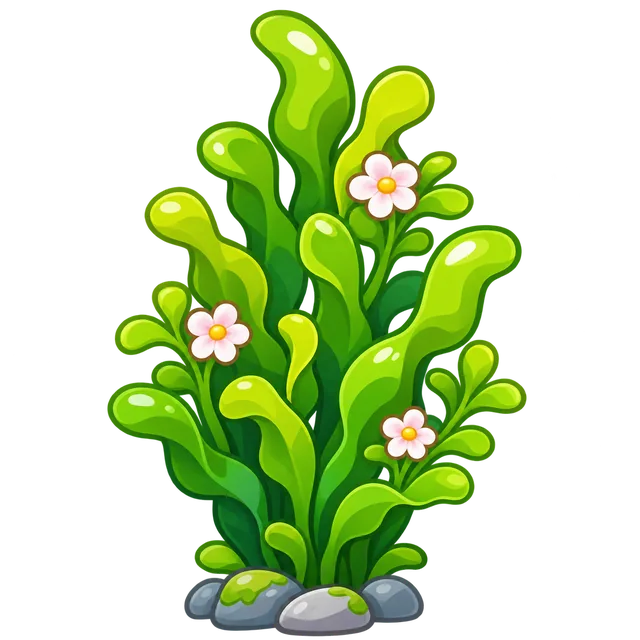
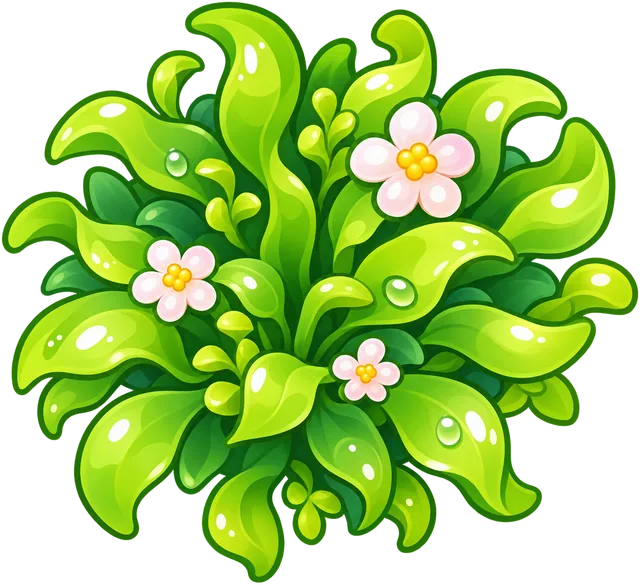
釣蝦遊戲：水草改為俯視簇狀圖
把側視水草換成由上往下看的圓形草叢（大／小／帶花），方形擺在池裡各處並避開碗；遮擋與躲藏邏輯不變。

diff --git a/web/src/customer/cute-art.tsx b/web/src/customer/cute-art.tsx
@@ -89,29 +89,25 @@ const ART:Record<string,()=>React.ReactElement>={
   <path d="M30 46q8-6 16-4" fill="none" stroke="#e3ecf6" strokeWidth={4} strokeLinecap="round"/>
   <circle cx="64" cy="62" r="5" fill="#9fb1c6"/><circle cx="40" cy="70" r="3.4" fill="#9fb1c6"/></>,
  "seaweed-1":()=><>
-  <ellipse cx="32" cy="90" rx="10" ry="6" fill="#c5cdd6" {...g} strokeWidth={2.4}/>
-  <ellipse cx="48" cy="92" rx="13" ry="7" fill="#d5dce4" {...g} strokeWidth={2.4}/>
-  <ellipse cx="64" cy="90" rx="9" ry="6" fill="#b8c2ce" {...g} strokeWidth={2.4}/>
-  <path d="M40 88c-6-22-16-40-8-72 10 8 10 28 8 44 8-18 4-40 14-54 2 22-2 44-6 62Z" fill="#7fce5a" {...g}/>
-  <path d="M52 88c4-24 16-36 8-70-10 10-8 30-6 48 10-16 18-36 22-52-8 24-14 46-16 70Z" fill="#62b848" {...g}/>
-  <path d="M46 86c-2-20 2-40-4-62 8 6 8 26 6 42" fill="none" stroke="#d6ff9a" strokeWidth={3} strokeLinecap="round"/></>,
+  <ellipse cx="50" cy="50" rx="16" ry="16" fill="#2f8a3a"/>
+  {[[50,18,16,28,0],[50,18,16,28,40],[50,18,16,28,80],[50,18,16,28,120],[50,18,16,28,160],[50,18,16,28,200],[50,18,16,28,240],[50,18,16,28,280],[50,18,16,28,320]].map(([x,y,rx,ry,a],i)=>
+   <ellipse key={i} cx={x} cy={y} rx={rx} ry={ry} fill={i%2?"#7ed957":"#4cb83a"} transform={`rotate(${a} 50 50)`} {...g} strokeWidth={2.2}/>)}
+  <ellipse cx="50" cy="50" rx="12" ry="12" fill="#3aa12e" {...g} strokeWidth={2.2}/>
+  <ellipse cx="50" cy="50" rx="6" ry="6" fill="#8ee25a"/></>,
  "seaweed-2":()=><>
-  <ellipse cx="28" cy="86" rx="11" ry="7" fill="#c5cdd6" {...g} strokeWidth={2.4}/>
-  <ellipse cx="50" cy="90" rx="16" ry="8" fill="#d5dce4" {...g} strokeWidth={2.4}/>
-  <ellipse cx="72" cy="86" rx="11" ry="7" fill="#b8c2ce" {...g} strokeWidth={2.4}/>
-  <path d="M34 84c-8-16-6-36 2-52 8 10 6 24 4 36" fill="#8ed45e" {...g}/>
-  <path d="M50 86c-10-18-4-40 6-58 10 12 8 28 4 44 10-16 18-28 16-48-2 22-8 38-12 54Z" fill="#62b848" {...g}/>
-  <path d="M66 84c8-16 6-34-2-50-6 12-4 26-2 36" fill="#7fce5a" {...g}/>
-  <path d="M44 70q6-8 12 0" fill="none" stroke="#d6ff9a" strokeWidth={3} strokeLinecap="round"/></>,
+  <ellipse cx="50" cy="50" rx="12" ry="12" fill="#2f8a3a"/>
+  {[[50,26,12,22,15],[50,26,12,22,60],[50,26,12,22,105],[50,26,12,22,150],[50,26,12,22,195],[50,26,12,22,240],[50,26,12,22,285],[50,26,12,22,330]].map(([x,y,rx,ry,a],i)=>
+   <ellipse key={i} cx={x} cy={y} rx={rx} ry={ry} fill={i%2?"#8ed45e":"#62b848"} transform={`rotate(${a} 50 50)`} {...g} strokeWidth={2.2}/>)}
+  <ellipse cx="50" cy="50" rx="10" ry="10" fill="#3aa12e" {...g} strokeWidth={2.2}/>
+  <ellipse cx="50" cy="50" rx="5" ry="5" fill="#b6f07a"/></>,
  "seaweed-3":()=><>
-  <ellipse cx="30" cy="90" rx="10" ry="6" fill="#c5cdd6" {...g} strokeWidth={2.4}/>
-  <ellipse cx="50" cy="92" rx="14" ry="7" fill="#d5dce4" {...g} strokeWidth={2.4}/>
-  <ellipse cx="68" cy="90" rx="10" ry="6" fill="#b8c2ce" {...g} strokeWidth={2.4}/>
-  <path d="M38 88c-6-22-14-40-6-70 10 8 10 28 7 44 8-16 6-38 16-52 0 22-4 44-8 62Z" fill="#6fbf4c" {...g}/>
-  <path d="M54 88c4-24 14-36 8-68-10 10-8 30-6 46 10-14 16-34 20-50-8 24-12 46-14 68Z" fill="#58a83e" {...g}/>
-  <circle cx="34" cy="28" r="5" fill="#ffe4f0" {...g} strokeWidth={2}/><circle cx="34" cy="28" r="2" fill="#ffb44a"/>
-  <circle cx="70" cy="36" r="5" fill="#ffe4f0" {...g} strokeWidth={2}/><circle cx="70" cy="36" r="2" fill="#ffb44a"/>
-  <circle cx="58" cy="20" r="4.5" fill="#ffe4f0" {...g} strokeWidth={2}/><circle cx="58" cy="20" r="1.8" fill="#ffb44a"/></>,
+  <ellipse cx="50" cy="50" rx="14" ry="14" fill="#2f8a3a"/>
+  {[[50,20,15,26,10],[50,20,15,26,55],[50,20,15,26,100],[50,20,15,26,145],[50,20,15,26,190],[50,20,15,26,235],[50,20,15,26,280],[50,20,15,26,325]].map(([x,y,rx,ry,a],i)=>
+   <ellipse key={i} cx={x} cy={y} rx={rx} ry={ry} fill={i%2?"#7ed957":"#4cb83a"} transform={`rotate(${a} 50 50)`} {...g} strokeWidth={2.2}/>)}
+  <ellipse cx="50" cy="50" rx="11" ry="11" fill="#3aa12e" {...g} strokeWidth={2.2}/>
+  <circle cx="36" cy="40" r="5" fill="#ffe4f0" {...g} strokeWidth={2}/><circle cx="36" cy="40" r="2" fill="#ffb44a"/>
+  <circle cx="64" cy="38" r="5" fill="#ffe4f0" {...g} strokeWidth={2}/><circle cx="64" cy="38" r="2" fill="#ffb44a"/>
+  <circle cx="52" cy="60" r="4.5" fill="#ffe4f0" {...g} strokeWidth={2}/><circle cx="52" cy="60" r="1.8" fill="#ffb44a"/></>,
 };
 export type ArtName=keyof typeof ART;
 export function CuteArt({name,className="",title}:{name:string;className?:string;title?:string}){

diff --git a/web/src/customer/game-cute.css b/web/src/customer/game-cute.css
@@ -252,9 +252,9 @@
 .sheet.game.cute .pond .weed .spr,
 .sheet.game.cute .pond .weed .spr-img{display:block;object-fit:contain;pointer-events:none}
 .sheet.game.cute .pond .weed.k-1 .spr,
-.sheet.game.cute .pond .weed.k-1 .spr-img{width:clamp(92px,28cqmin,155px);height:clamp(138px,42cqmin,230px)}
+.sheet.game.cute .pond .weed.k-1 .spr-img{width:clamp(118px,32cqmin,190px);height:clamp(118px,32cqmin,190px)}
 .sheet.game.cute .pond .weed.k-2 .spr,
-.sheet.game.cute .pond .weed.k-2 .spr-img{width:clamp(112px,32cqmin,185px);height:clamp(76px,22cqmin,125px)}
+.sheet.game.cute .pond .weed.k-2 .spr-img{width:clamp(80px,22cqmin,130px);height:clamp(80px,22cqmin,130px)}
 .sheet.game.cute .pond .weed.k-3 .spr,
-.sheet.game.cute .pond .weed.k-3 .spr-img{width:clamp(100px,28cqmin,165px);height:clamp(100px,28cqmin,165px)}
+.sheet.game.cute .pond .weed.k-3 .spr-img{width:clamp(104px,28cqmin,168px);height:clamp(104px,28cqmin,168px)}
 .sheet.game.cute .pond-obj.dashing{filter:drop-shadow(0 0 10px #fff8) drop-shadow(0 3px 0 #204b6026)}
